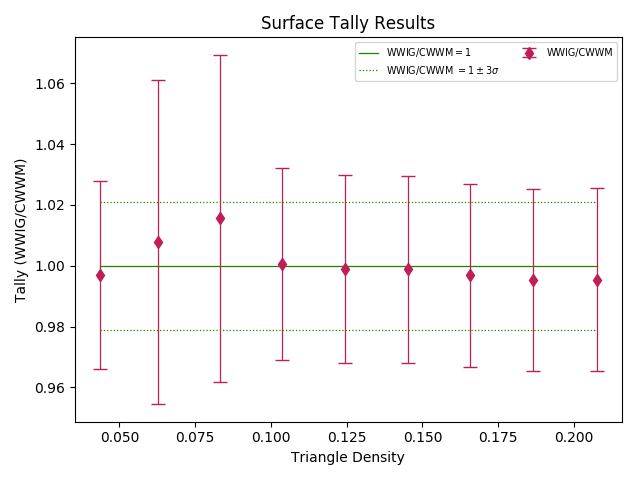
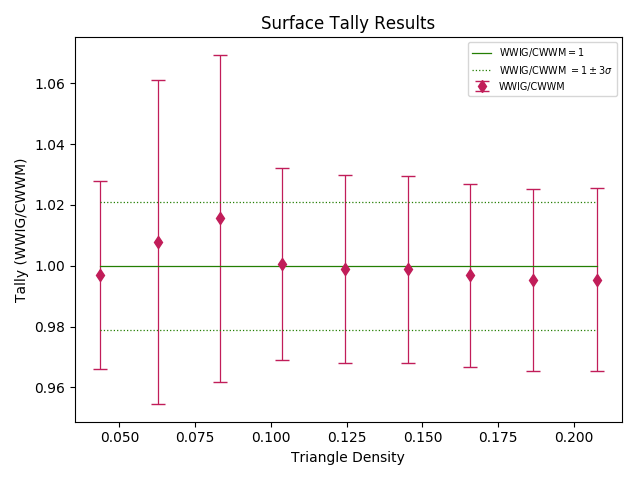
creation and loss data

Changed region(s): [[0.5625, 0.0938, 0.9688, 0.2188]]

diff --git a/performance-analysis/analysis/plot_tally_data.py b/performance-analysis/analysis/plot_tally_data.py
@@ -114,7 +114,7 @@ def plot_tally_cwwm(df_output, refinement, df_measure=None, pltratio=True,
     plt.title(title)
     plt.xlabel(xlabel)
     plt.ylabel(ylabel)
-    plt.legend(loc='best', ncol=2,
+    plt.legend(loc='best', ncol=1,
                fontsize='x-small')
     plt.tight_layout()
 
@@ -383,12 +383,12 @@ def plot_ww_efficiency(df_output, refinement, df_measure=None):
             2, float(df_cwwm['total stochastic termination'] / 10**6))
         ax[0].plot([xmin, xmax], cwwm_ww, marker='',
                    ls=':', color=colors['cwwm'], label='CWWM')
-        # ax[1].plot([xmin, xmax], cwwm_total, marker='',
-        #            ls=':', color=colors['cwwm'], label='')
-        # ax[2].plot([xmin, xmax], cwwm_splits, marker='',
-        #            ls=':', color=colors['cwwm'], label='')
-        # ax2.plot([xmin, xmax], cwwm_term, marker='',
-        #          ls='-', color=colors['cwwm'], label='')
+        ax[1].plot([xmin, xmax], cwwm_total, marker='',
+                   ls=':', color=colors['cwwm'], label='')
+        ax[2].plot([xmin, xmax], cwwm_splits, marker='',
+                   ls=':', color=colors['cwwm'], label='')
+        ax2.plot([xmin, xmax], cwwm_term, marker='',
+                 ls='', color=colors['cwwm'], label='')
 
     title = 'Weight Window Efficiency'
     fig.suptitle(title, fontsize='x-large')
@@ -396,6 +396,38 @@ def plot_ww_efficiency(df_output, refinement, df_measure=None):
                fontsize='x-small')
     fig.tight_layout(pad=2.5, h_pad=0)
     save_name = 'images/ww_efficiency_{}.png'.format(refinement)
+    plt.savefig(save_name)
+
+    fig, ax = plt.subplots()
+    ax2 = ax.twinx()
+    if df_measure is None:
+        # also plot cwwm results
+        xmax = max(df_wwig[output_key])
+        xmin = min(df_wwig[output_key])
+        df_cwwm = df_output.loc[df_output['mode'] == 'cwwm']
+        cwwm_create = np.full(2, float(df_cwwm['ww creation']) / 10**5)
+        cwwm_loss = np.full(2, float(df_cwwm['ww loss']) / 10**5)
+        ax.plot([xmin, xmax], cwwm_create, marker='',
+                ls=':', color=colors['cwwm'], label='CWWM')
+        ax2.plot([xmin, xmax], cwwm_loss, marker='',
+                 ls='', color=colors['cwwm'], label='')
+
+    ax.plot(df_wwig[measurement], df_wwig['ww creation'] / 10**5,
+            marker=markers['wwig'], ls='',
+            label='Creation', color=colors['wwig'])
+    ax.set_ylabel(r'Neutron Creation ($\times 10^5$)')
+    ax.set_xlabel(xlabel)
+    ax2.plot(df_wwig[measurement],
+             df_wwig['ww loss'] / 10**5,
+             marker=markers['analog'], ls='',
+             label='Loss', color=colors['analog'])
+    ax2.set_ylabel(r'Neutron Loss ($\times 10^5$)')
+
+    fig.suptitle('Neutron Creation/Loss by Weight Window')
+    fig.legend(bbox_to_anchor=(0.5, 0), loc='lower center', ncol=3,
+               fontsize='x-small')
+    fig.tight_layout(pad=2.5)
+    save_name = 'images/ww_creationloss_{}.png'.format(refinement)
     plt.savefig(save_name)
 
 

diff --git a/performance-analysis/analysis/collect_mcnp_run_data.py b/performance-analysis/analysis/collect_mcnp_run_data.py
@@ -48,6 +48,13 @@ def read_outp(fpath):
     outp_info['slope'] = float(data[4])
     outp_info['fom'] = float(data[5])
     outp_info['cpu time'] = float(all_lines[-3].split(' ')[-2])
+
+    # get production/destruction info:
+    header = ' neutron creation    tracks      weight        energy            neutron loss        tracks      weight        energy\n'
+    hindex = all_lines.index(header)
+    ww_line = all_lines[hindex + 6].split()
+    outp_info['ww creation'] = int(ww_line[2])
+    outp_info['ww loss'] = int(ww_line[7])
     return outp_info
 
 
